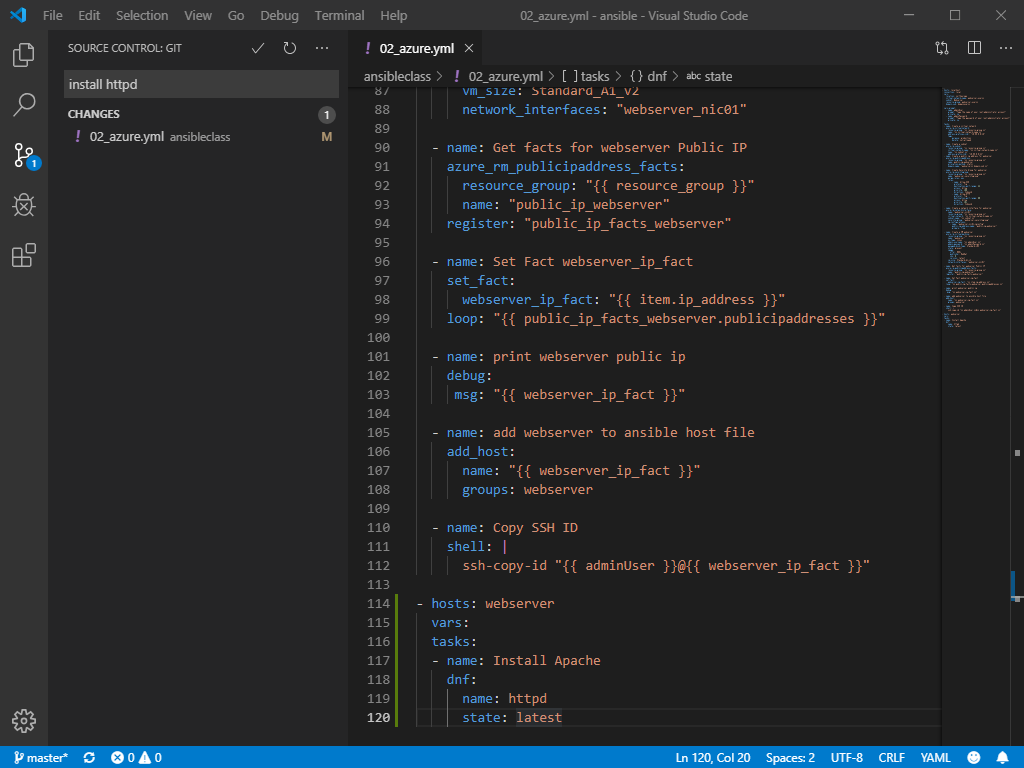
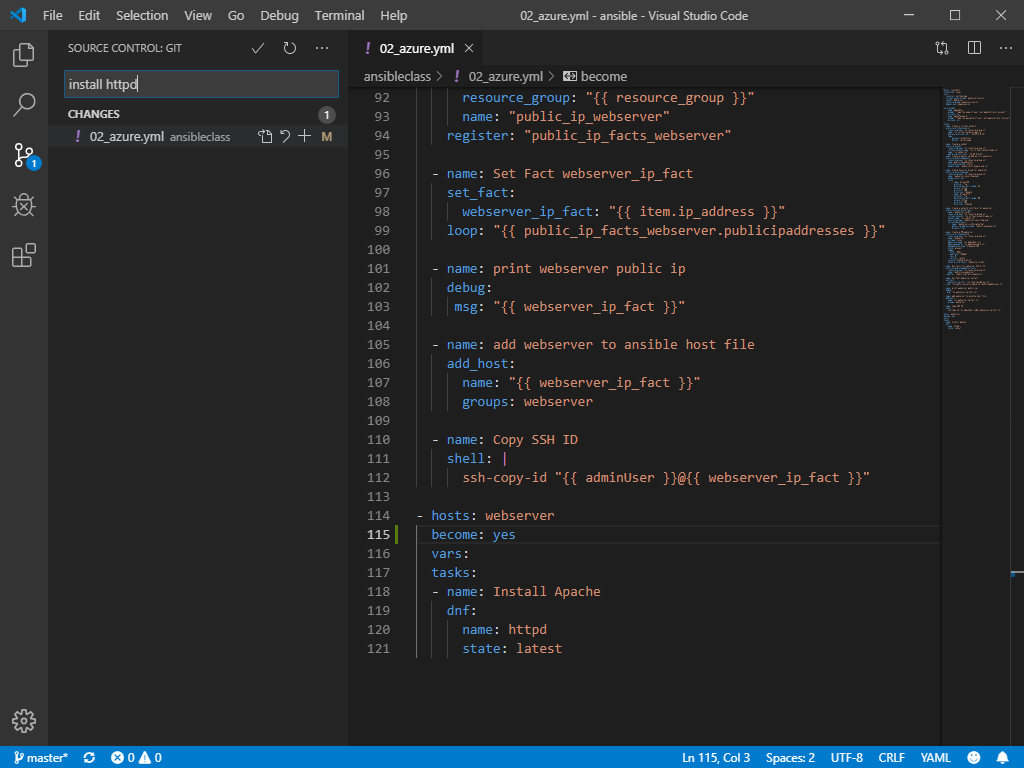
template

diff --git a/lab04/lab4.md b/lab04/lab4.md
@@ -415,6 +415,8 @@ Use git to get the new azure playbook
 
 Change url to your own repository
 
+Note: Task Copy SSH ID, need attention, type "yes" and password when asked
+
 __Type:__
 
 ```bash
@@ -437,6 +439,7 @@ In VSCode add the next sections to the 02_azure.yml playbook
 
 ```ansible
 - hosts: webserver
+  become: yes
   vars:
   tasks:
   - name: Install Apache
@@ -463,6 +466,63 @@ git clone https://github.com/jesperberth/ansibleclass.git
 
 cd ansibleclass
 
-ansible-playbook 02_azure.yml
+ansible-playbook 02_azure.yml --ask-become-pass
 
 ```
+
+![Alt text](pics/021_azure_httpd_run.png?raw=true "azure install httpd playbook run")
+
+In VSCode add the next sections to the 02_azure.yml playbook
+
+```ansible
+  - name: Enable Apache
+    systemd:
+      name: httpd
+      state: enabled
+
+  - name: Allow http in firewall
+    firewalld:
+  
+  - name: Add index.html
+    template:
+
+
+```
+
+![Alt text](pics/020_azure_httpd.png?raw=true "azure config httpd playbook")
+
+In VSCode create a new jinja file index.html.j2
+
+```html
+<html>
+<header><title></title></header>
+<body>
+
+
+</body>
+</html>
+```
+
+![Alt text](pics/020_azure_httpd.png?raw=true "azure config httpd playbook")
+
+Save and commit to Git
+
+Log on to server "ansible" using ssh
+
+Use git to get the new azure playbook
+
+Change url to your own repository
+
+__Type:__
+
+```bash
+
+git clone https://github.com/jesperberth/ansibleclass.git
+
+cd ansibleclass
+
+ansible-playbook 02_azure.yml --ask-become-pass
+
+```
+
+![Alt text](pics/021_azure_httpd_run.png?raw=true "azure install httpd playbook run")
